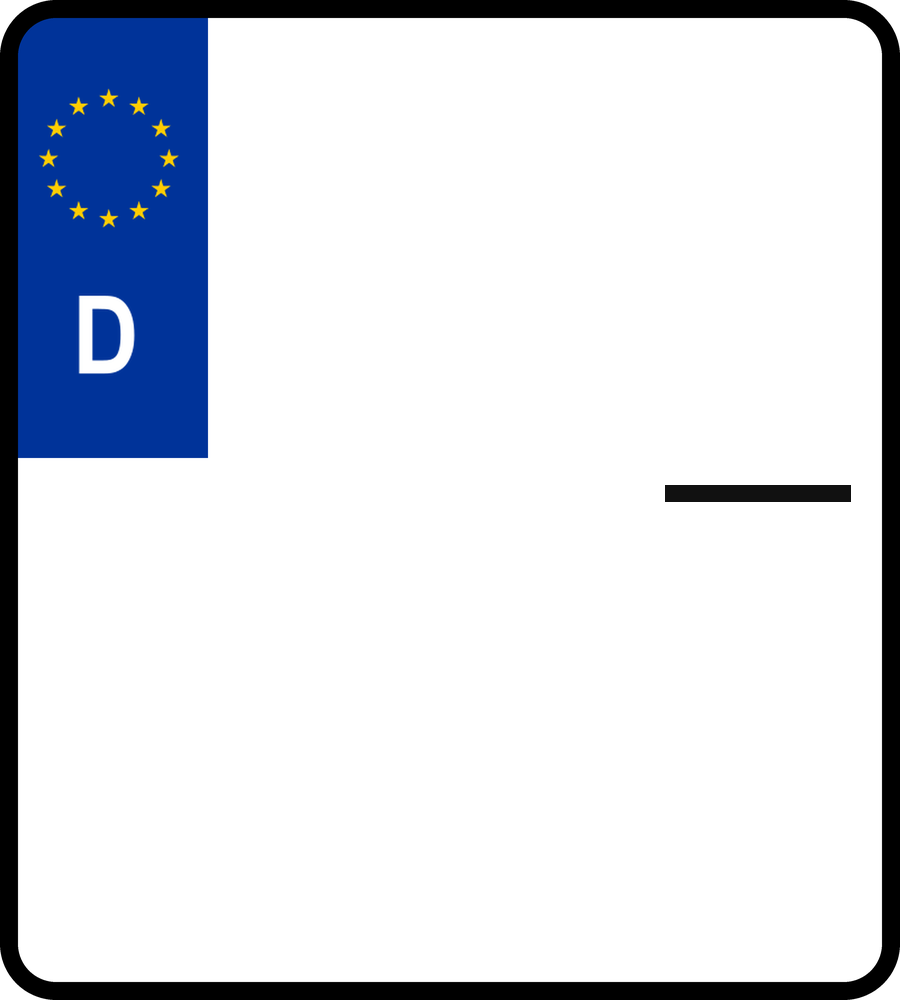
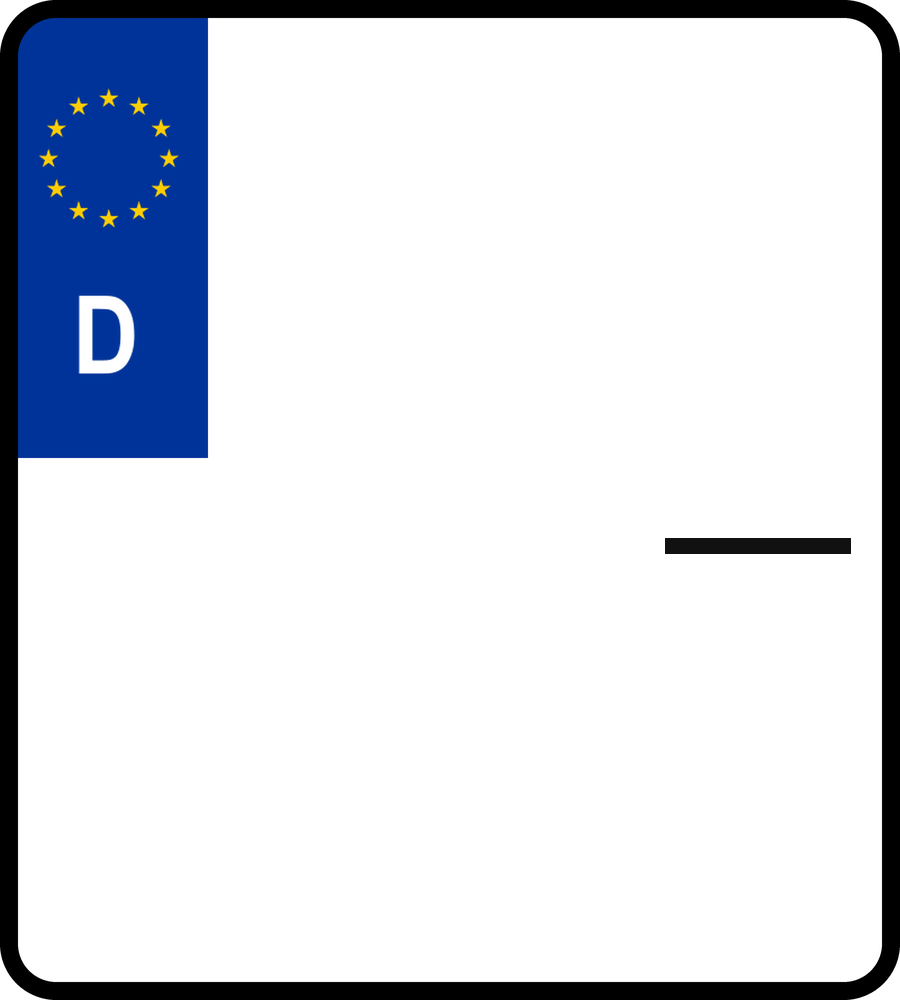
Germany: seasonal motorcycle stickers moved right and down, clear of the euroband

Changed region(s): [[0.7156, 0.465, 0.9644, 0.558]]

diff --git a/app/lib/plateLayout.ts b/app/lib/plateLayout.ts
@@ -378,7 +378,7 @@ for (const k of ["moto-old"]) {
 }
 { // motorcycle: the months sit right of the stickers, between the two rows
   const b = PLATE_ART["germany:moto"];
-  PLATE_ART["germany:moto-season"] = { ...b, src: "/plates/germany/season-moto.png", split: "de-season-two", rows: [b.rows[0], b.rows[1], { y0: 375, y1: 465, x0: 665, x1: 850, slots: 1, own: true }, { y0: 520, y1: 610, x0: 665, x1: 850, slots: 1, own: true }], fixed: [{ kind: "hu", x: 250, y: 500, d: 160 }, { kind: "state", x: 455, y: 500, d: 200 }] };
+  PLATE_ART["germany:moto-season"] = { ...b, src: "/plates/germany/season-moto.png", split: "de-season-two", rows: [b.rows[0], b.rows[1], { y0: 432, y1: 512, x0: 665, x1: 850, slots: 1, own: true }, { y0: 580, y1: 660, x0: 665, x1: 850, slots: 1, own: true }], fixed: [{ kind: "hu", x: 305, y: 550, d: 150 }, { kind: "state", x: 490, y: 550, d: 190 }] };
 }
 for (const k of ["", "-two", "-us"]) PLATE_ART[`germany:export${k}`] = { ...PLATE_ART[`germany:transit${k}`], src: `/plates/germany/export${k}.png`, space: 0.3 };
 // Germany: shortened plates (480 … 340 mm) — the 520 mm plate with a slice cut from the middle of the face (scripts/build-germany-art.py)

diff --git a/app/components/PlateBadge.tsx b/app/components/PlateBadge.tsx
@@ -12,7 +12,7 @@ export { formatPlateText } from "@/app/lib/plateLayout";
 export type { PlateSize };
 
 /** Bump when the plate rendering changes, so CDN-cached images refresh. */
-const PLATE_IMAGE_VERSION = 183;
+const PLATE_IMAGE_VERSION = 184;
 /** Render at 3× for crisp output on high-density screens. */
 const DENSITY = 3;
 

diff --git a/scripts/build-germany-art.py b/scripts/build-germany-art.py
@@ -195,7 +195,7 @@ im = Image.open(os.path.join(OUT, "two.png")).convert("RGBA")
 ImageDraw.Draw(im).rectangle([586, 142, 664, 152], fill=(17, 17, 17, 255))
 im.save(os.path.join(OUT, "season-two.png"))
 im = Image.open(os.path.join(OUT, "moto.png")).convert("RGBA")
-ImageDraw.Draw(im).rectangle([665, 485, 850, 501], fill=(17, 17, 17, 255))
+ImageDraw.Draw(im).rectangle([665, 538, 850, 553], fill=(17, 17, 17, 255))
 im.save(os.path.join(OUT, "season-moto.png"))
 print("season variants ok")
 
